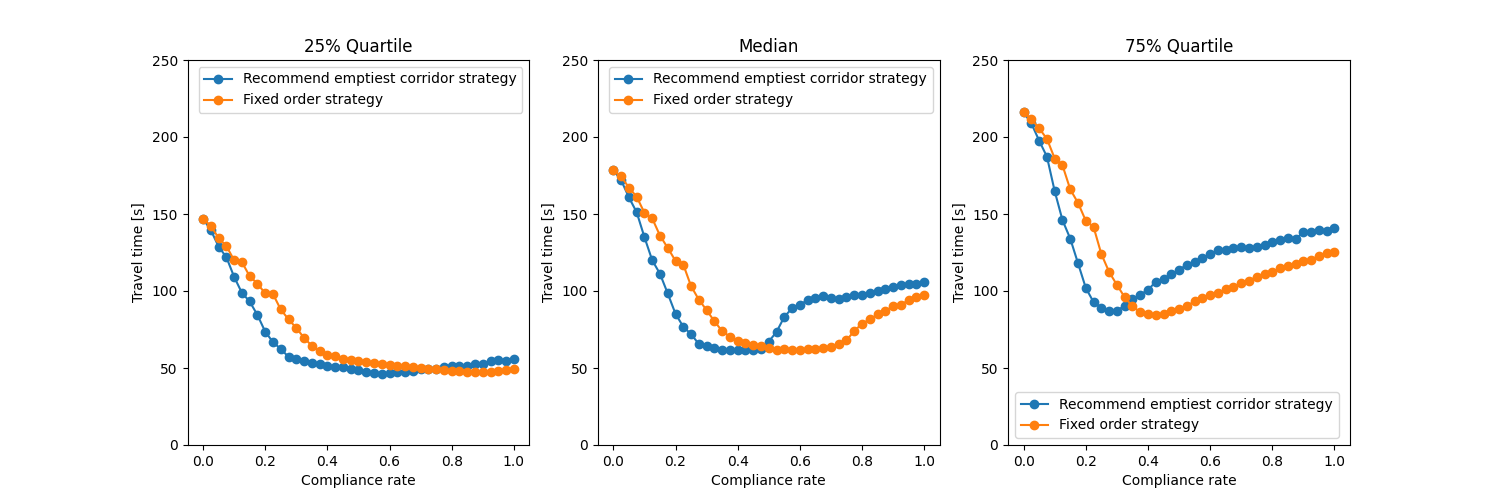
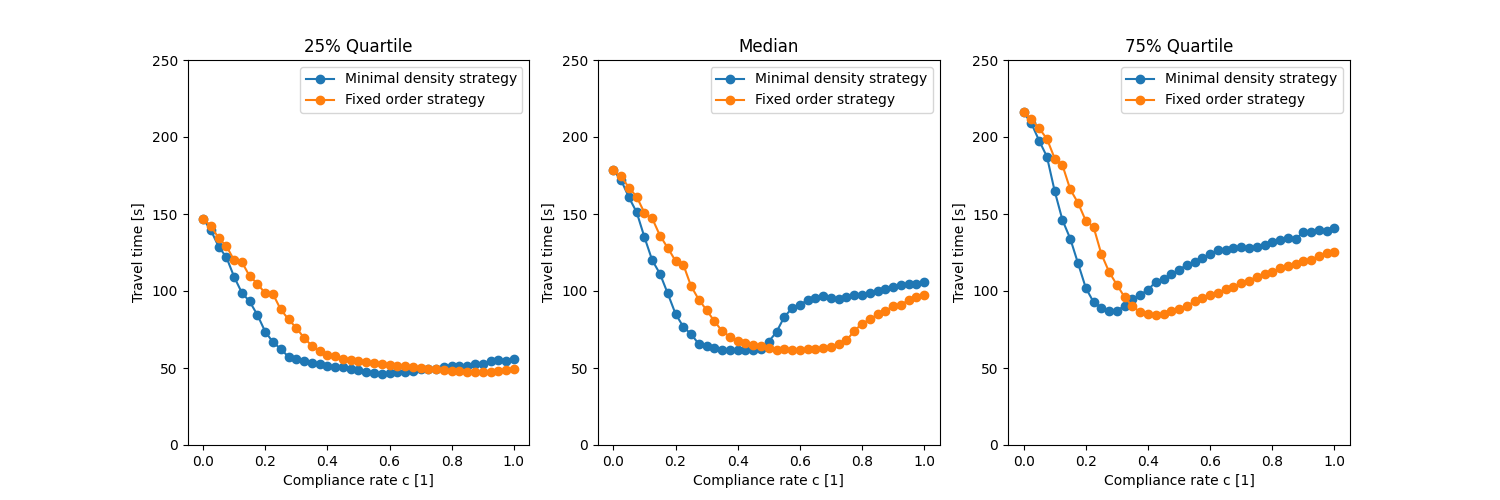
update strategy name

diff --git a/analysis/uq/simulation_studies/guiding_crowds_forward_propagation/step_3_analyze_results.py b/analysis/uq/simulation_studies/guiding_crowds_forward_propagation/step_3_analyze_results.py
@@ -33,12 +33,13 @@ args_boxplot = dict(flierprops=dict(marker='+', markerfacecolor='#AAAAAA', marke
                                 notch=True)
 
 controller__ = {"OpenLoop": "Fixed order strategy",
-                "ClosedLoop" : "Recommend emptiest corridor strategy" }
+                "ClosedLoop" : "Minimal density strategy" }
 sim_time_steady_flow_start = 250
 sim_time_steady_flow_end = 1250
 time_step_size = 0.4
 var_corridor = "Corridor"
 reaction_prob_key_short = "reactionProbability"
+compliance_rate = "Compliance rate c [1]"
 
 probs = np.linspace(0, 1.0, 11)
 probs = np.linspace(0, 1.0, 41)
@@ -143,7 +144,7 @@ def plot_travel_time(travel_time):
         plt.title(f"{controller__[c]}")
         plt.xticks(np.arange(1, 45, 4), [f"{x:.1f}" for x in np.linspace(0, 1, 11)])
         plt.ylabel("Travel time [s]")
-        plt.xlabel("Compliance rate")
+        plt.xlabel(compliance_rate)
         plt.savefig(f"figs/travel_time_{controller__[c]}.png")
         plt.show()
         print()
@@ -161,7 +162,7 @@ def plot_travel_time(travel_time):
     ax[0].set_ylim(0, 250)
     ax[0].legend()
     ax[0].set_ylabel("Travel time [s]")
-    ax[0].set_xlabel("Compliance rate")
+    ax[0].set_xlabel(compliance_rate)
 
 
     time_med = travel_time.groupby(by=["Controller",reaction_prob_key_short]).median().unstack(level=0)
@@ -173,7 +174,7 @@ def plot_travel_time(travel_time):
     ax[1].set_ylim(0, 250)
     ax[1].legend()
     ax[1].set_ylabel("Travel time [s]")
-    ax[1].set_xlabel("Compliance rate")
+    ax[1].set_xlabel(compliance_rate)
 
     time_75 = travel_time.groupby(by=["Controller",reaction_prob_key_short]).quantile(0.75).unstack(level=0)
     time_75.columns = time_75.columns.droplevel(0)
@@ -184,7 +185,7 @@ def plot_travel_time(travel_time):
     ax[2].set_ylim(0, 250)
     ax[2].legend()
     ax[2].set_ylabel("Travel time [s]")
-    ax[2].set_xlabel("Compliance rate")
+    ax[2].set_xlabel(compliance_rate)
 
     plt.savefig("figs/Travel_time")
     plt.show()
@@ -366,7 +367,7 @@ def plot_quantity(densities, file_name, y_min=0, y_max=2.5, ylabel="Density [ped
             densities__.boxplot(**args_boxplot)
             ax[ii, i].set_title(f"{c__[corridor_]} corridor.")
             ax[ii, i].set_ylim(y_min, y_max)
-            ax[ii, i].set_xlabel("Compliance rate r [1]")
+            ax[ii, i].set_xlabel(compliance_rate)
             ax[ii, i].set_ylabel(ylabel)
             ax[ii, i].set_xticks(np.arange(1,45,4))
             ax[ii, i].set_xticklabels([f"{x:.1f}" for x in np.linspace(0,1,11)])
@@ -399,7 +400,7 @@ def plot_route_1_recommended(path_choice, corridor_= 11):
     ppp.plot(marker="o")
     plt.ylim(-10,550)
     plt.ylabel("Counts")
-    plt.xlabel("Compliance rate r [1]")
+    plt.xlabel(compliance_rate)
     plt.title(f"{corridor} route recommended")
     plt.savefig(f"figs/route{corridor}recommded.png")
     plt.show()
